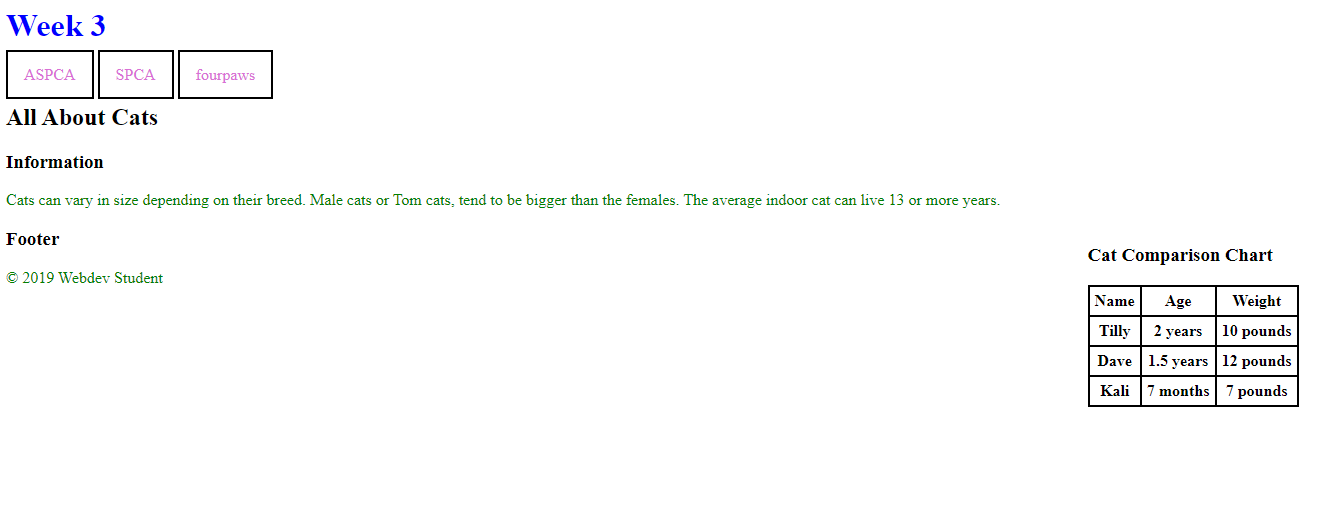
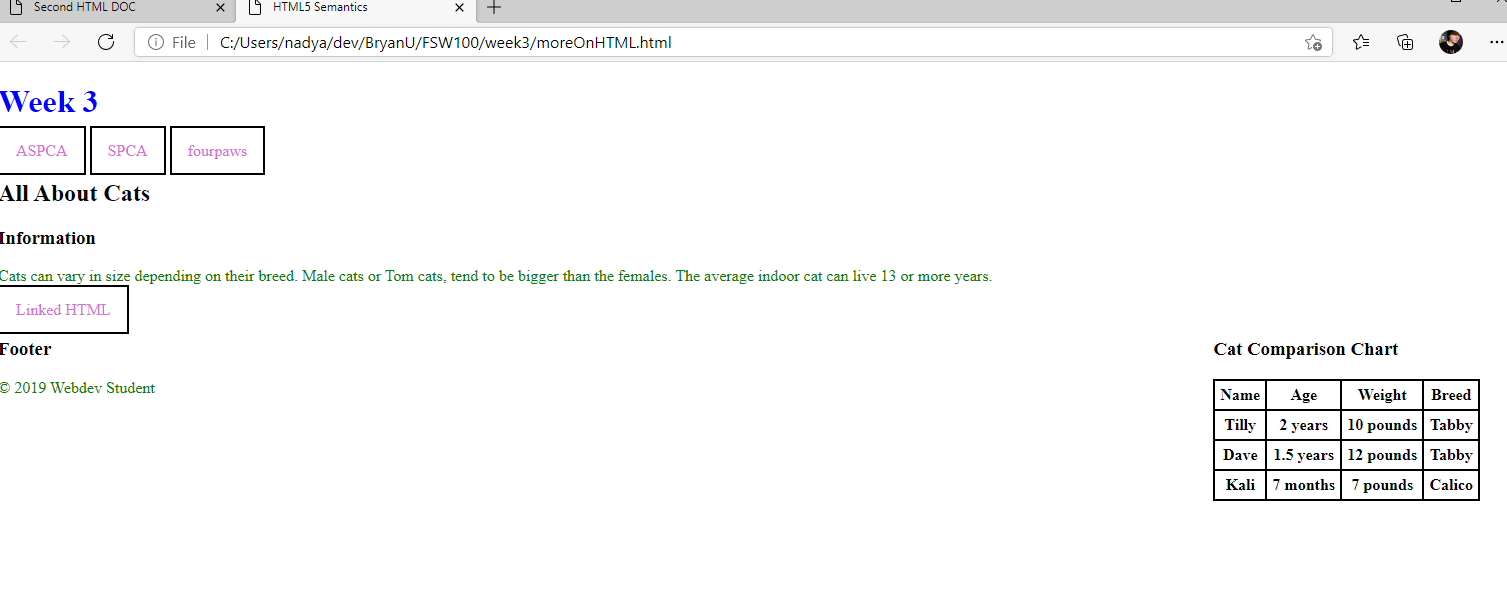
cats part 2

diff --git a/week3/moreOnHTML.html b/week3/moreOnHTML.html
@@ -19,6 +19,7 @@
         <article>
             <h3>Information</h3>
             <p>Cats can vary in size depending on their breed. Male cats or Tom cats, tend to be bigger than the females. The average indoor cat can live 13 or more years.</p>
+            <a href="about.html">Linked HTML</a>
         </article>
         <aside>
             <h3>Cat Comparison Chart</h3>
@@ -26,22 +27,26 @@
                 <tr>
                     <th>Name</th>
                     <th>Age</th>
-                    <th>Weight</th>            
+                    <th>Weight</th>
+                    <th>Breed</th>            
                 </tr>
                 <tr>
                     <th>Tilly</th>
                     <th>2 years</th>
-                    <th>10 pounds</th>            
+                    <th>10 pounds</th>
+                    <th>Tabby</th>            
                 </tr>
                 <tr>
                     <th>Dave</th>
                     <th>1.5 years</th>
-                    <th>12 pounds</th>            
+                    <th>12 pounds</th>
+                    <th>Tabby</th>            
                 </tr>
                 <tr>
                     <th>Kali</th>
                     <th>7 months</th>
-                    <th>7 pounds</th>            
+                    <th>7 pounds</th>
+                    <th>Calico</th>            
                 </tr>
             </table>
         </aside>
